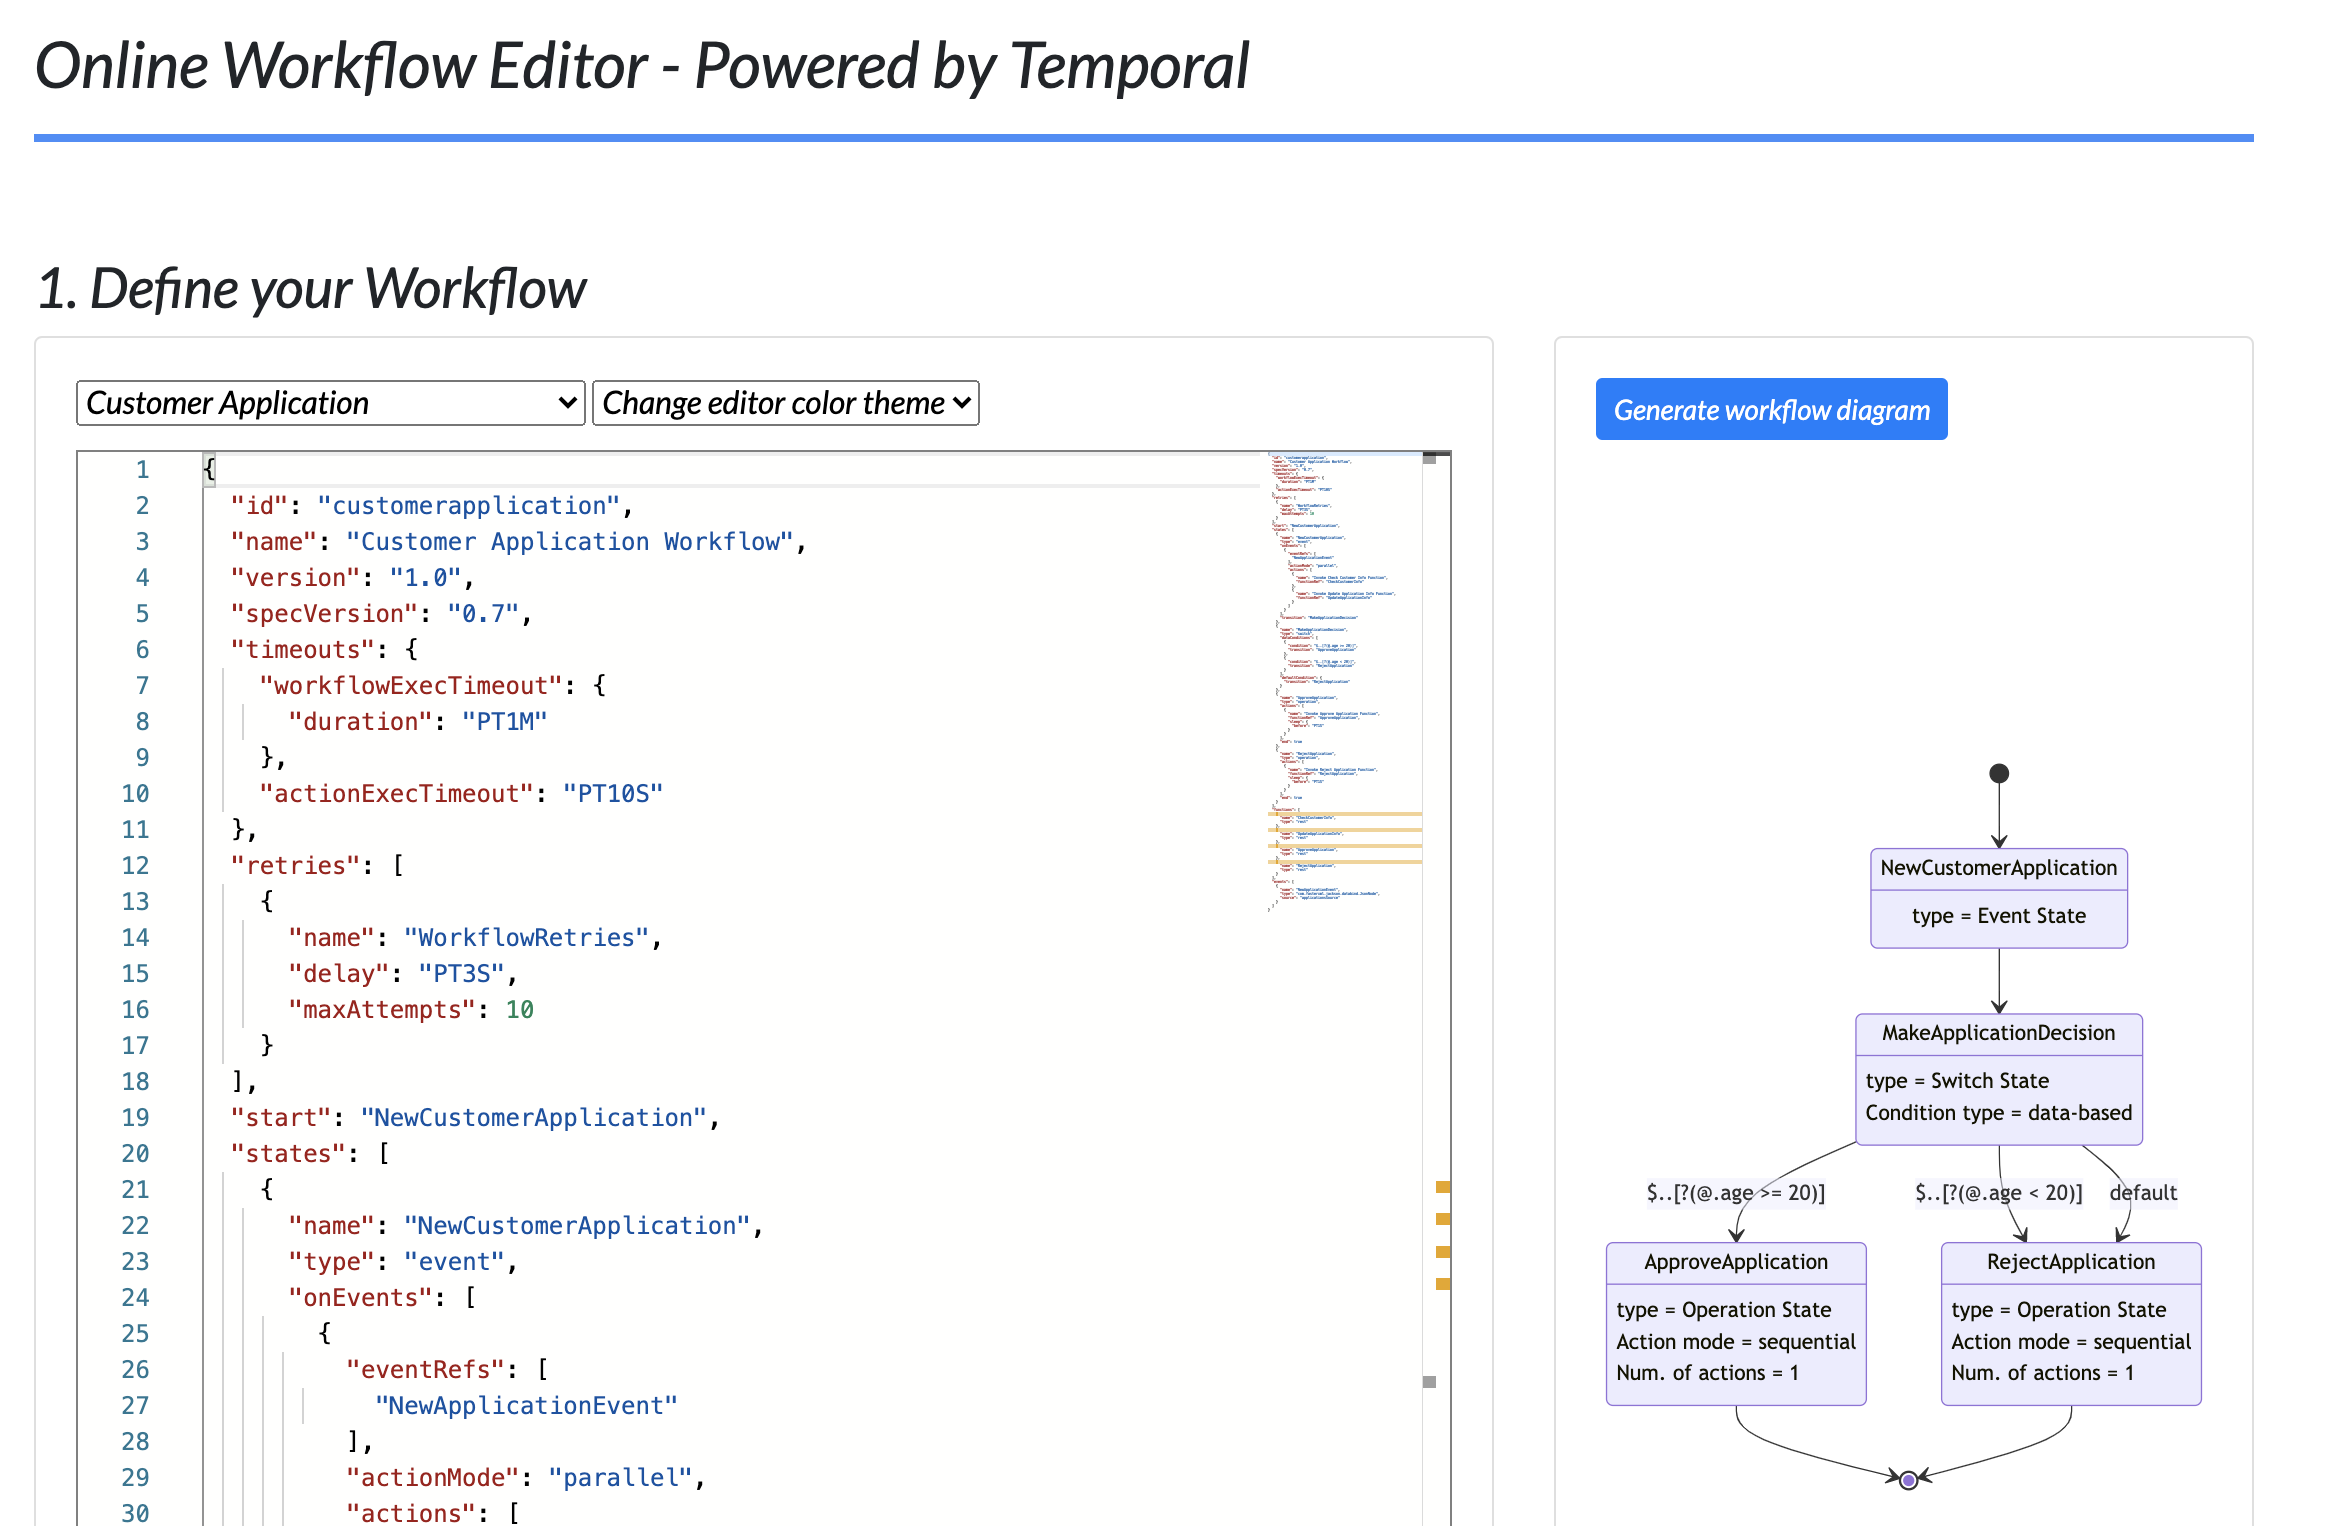
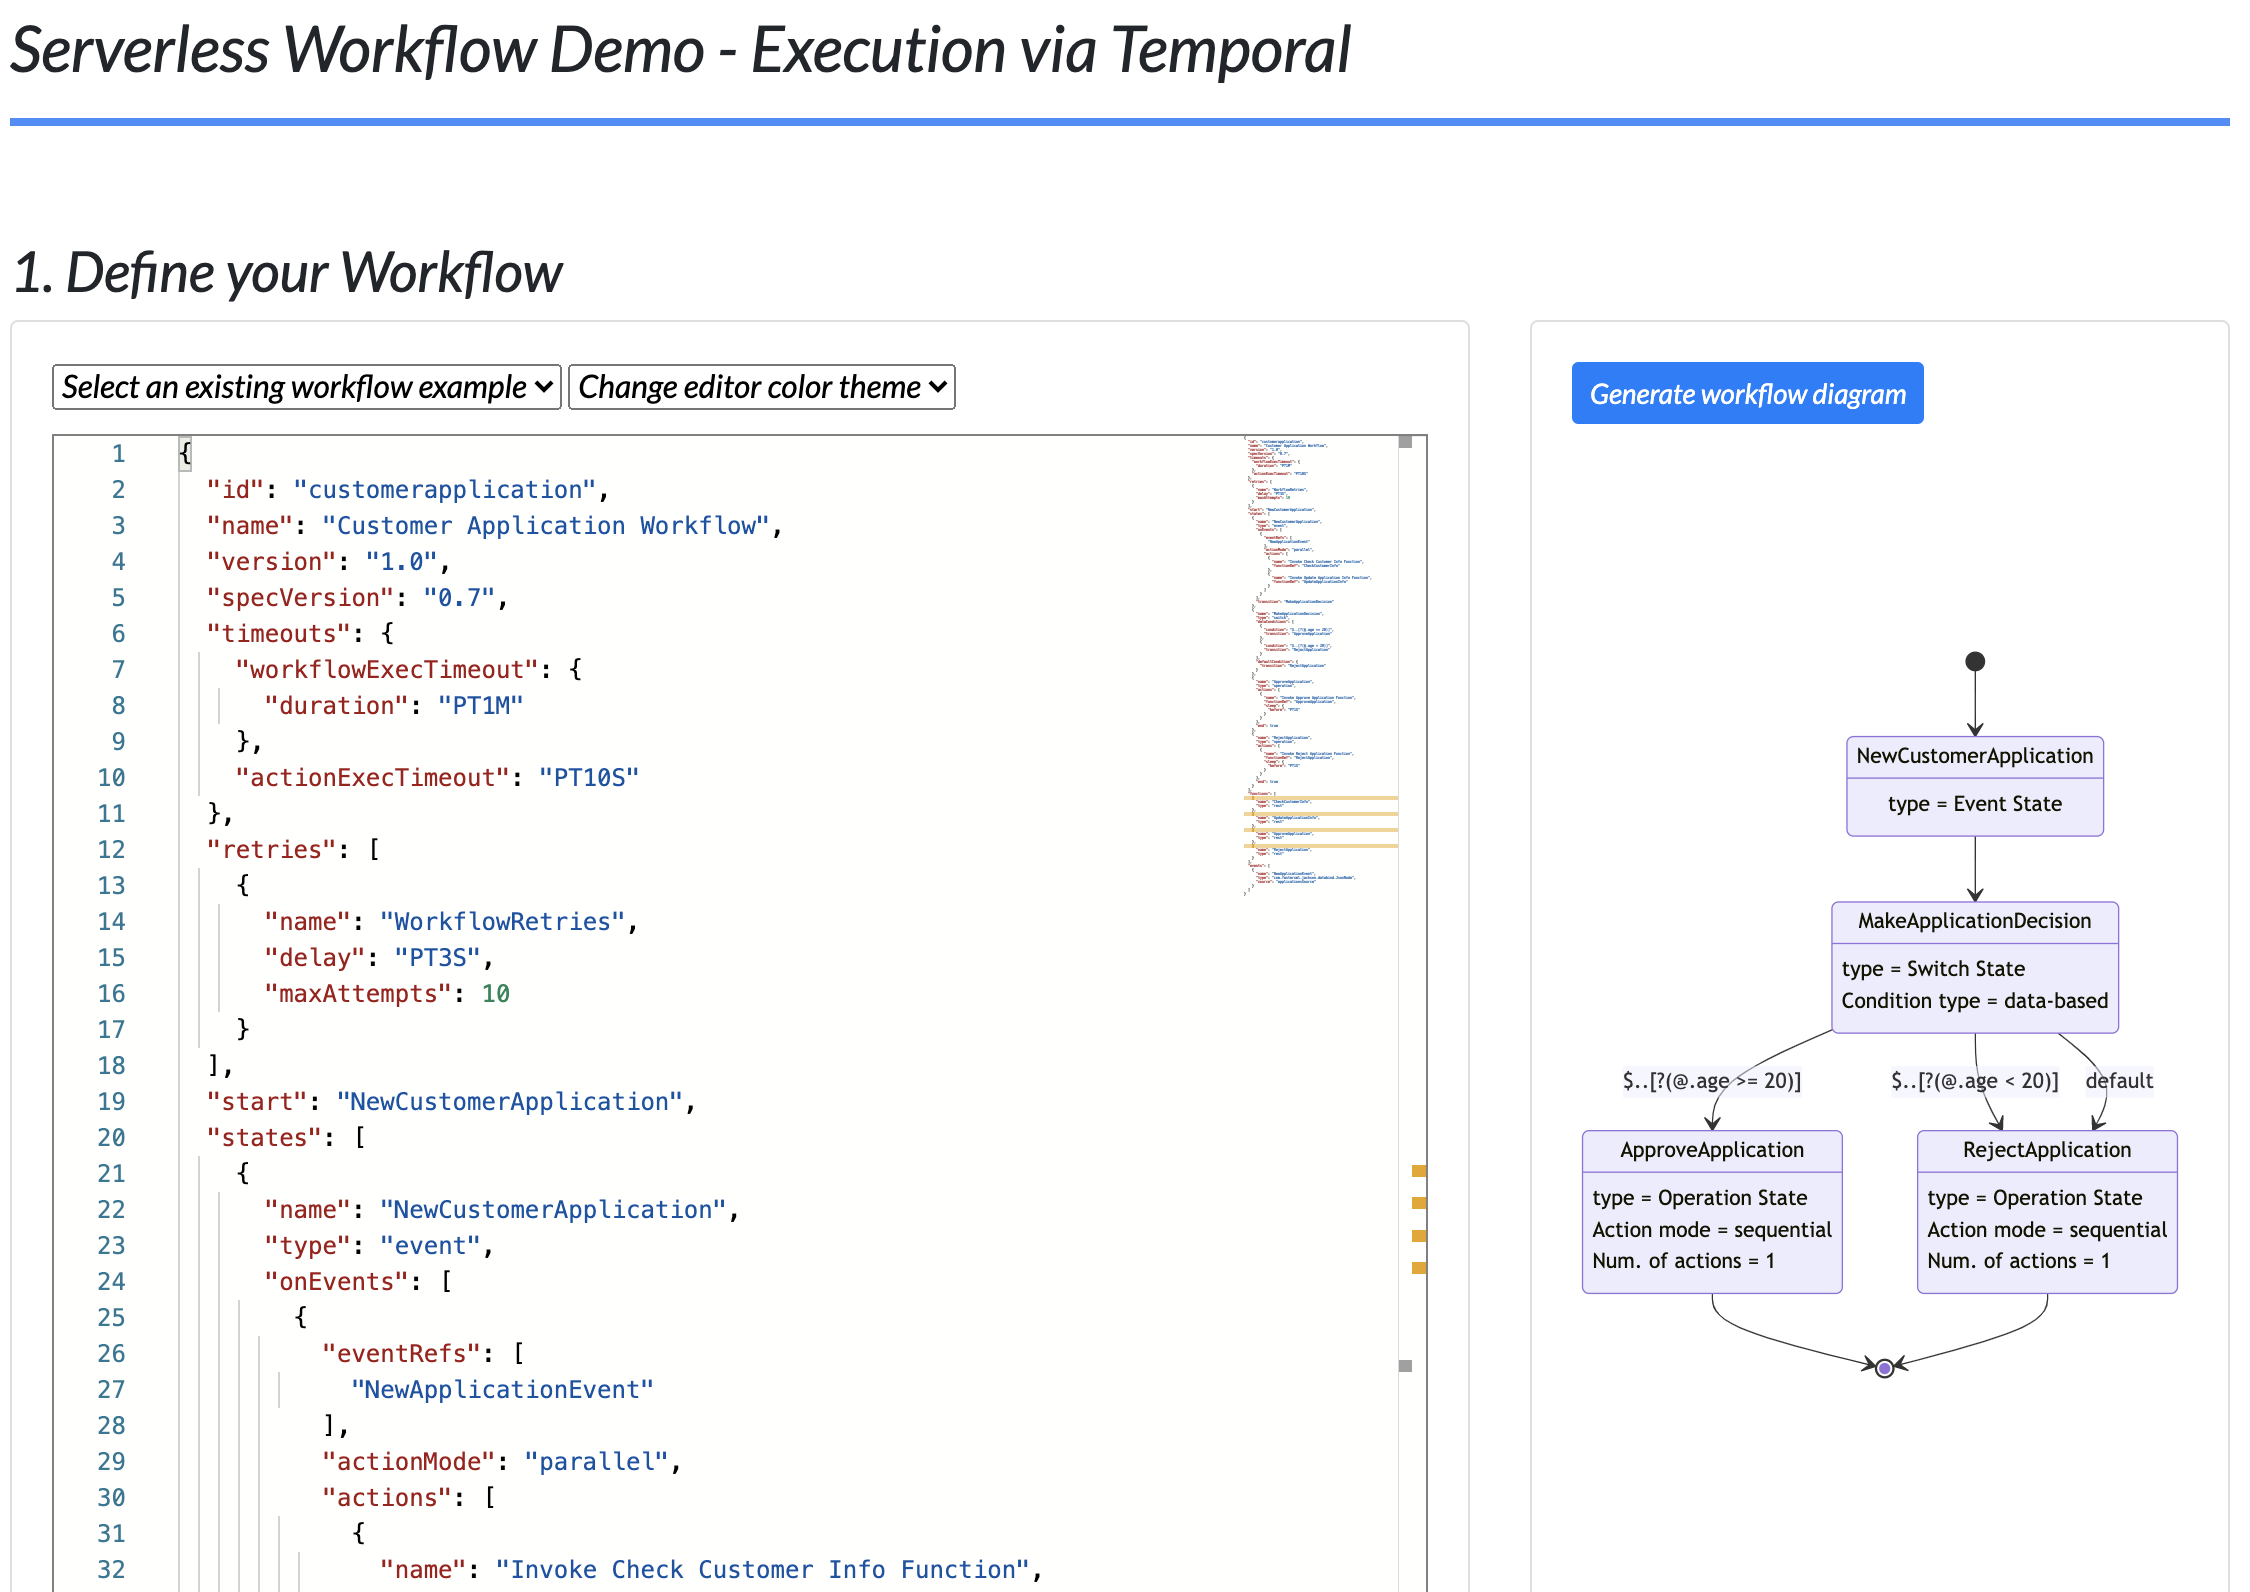
updated doc img

diff --git a/src/main/resources/META-INF/resources/index.html b/src/main/resources/META-INF/resources/index.html
@@ -22,7 +22,7 @@
 <body id="page-top">
 <section id="swonlineeditor" style="padding: 100px;">
     <div class="container">
-        <h2>Online Workflow Editor - Powered by Temporal</h2>
+        <h2>Serverless Workflow Demo - Execution via Temporal</h2>
         <hr class="hr-short"/>
         <br/>
         <p class="lead">
